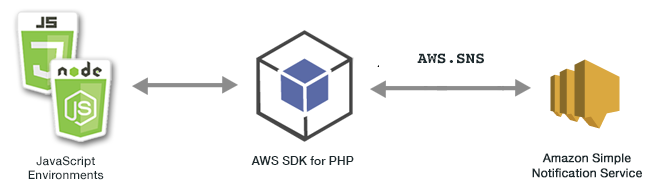
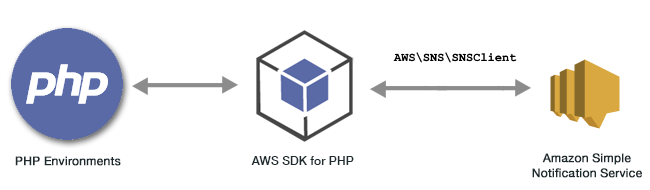
Updating image and code reference for SNS

diff --git a/doc_source/sns-examples-sending-sms.rst b/doc_source/sns-examples-sending-sms.rst
@@ -40,13 +40,13 @@ This example gets the DefaultSMSType attribute, which controls whether SMS messa
 
 **Imports**
 
-.. literalinclude::  example_code/GetSMSAtrributes.php
+.. literalinclude::  example_code/sns/GetSMSAtrributes.php
    :lines: 19-22
    :language: PHP
 
 **Sample Code**
 
-.. literalinclude:: example_code/GetSMSAtrributes.php
+.. literalinclude:: example_code/sns/GetSMSAtrributes.php
    :lines: 31-50
    :language: php
    
@@ -59,13 +59,13 @@ This example sets the DefaultSMSType attribute to Transactional, which optimizes
 
 **Imports**
 
-.. literalinclude::  example_code/SetSMSAtrributes.php
+.. literalinclude::  example_code/sns/SetSMSAtrributes.php
    :lines: 19-22
    :language: PHP
 
 **Sample Code**
 
-.. literalinclude:: example_code/SetSMSAtrributes.php
+.. literalinclude:: example_code/sns/SetSMSAtrributes.php
    :lines: 31-50
    :language: php
    
